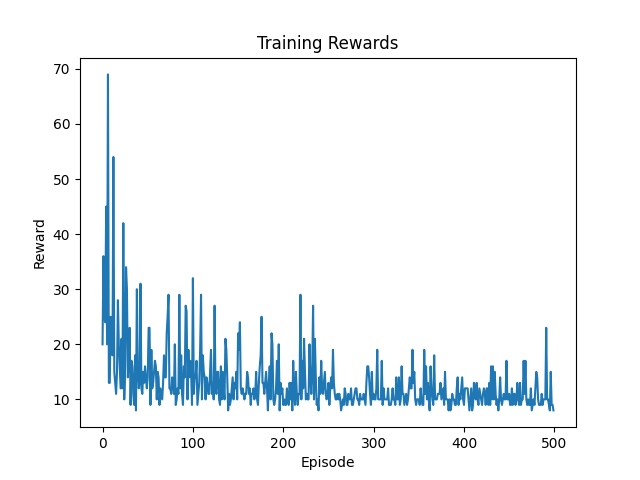
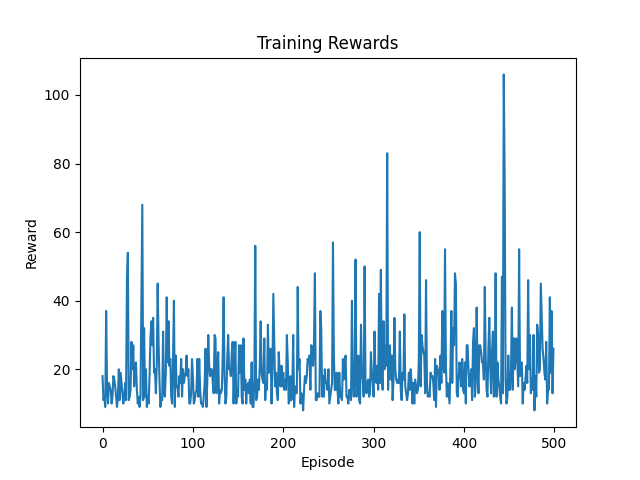
Enhance model

diff --git a/grpo_rl_gpt-13/main.py b/grpo_rl_gpt-13/main.py
@@ -31,7 +31,7 @@ class ValueNetwork(nn.Module):
         return self.fc(x)
 
 class GRPOAgent:
-    def __init__(self, state_dim, action_dim, lr=3e-4, gamma=0.99, lambda_gae=0.95, kl_target=0.01, beta=1.0):
+    def __init__(self, state_dim, action_dim, lr=1e-4, gamma=0.99, lambda_gae=0.95, kl_target=0.01, beta=1.0):
         self.policy_net = PolicyNetwork(state_dim, action_dim)
         self.value_net = ValueNetwork(state_dim)
         self.optimizer = optim.Adam(list(self.policy_net.parameters()) + list(self.value_net.parameters()), lr=lr)
@@ -78,6 +78,10 @@ class GRPOAgent:
         old_log_probs = torch.FloatTensor(old_log_probs)
         advantages = torch.FloatTensor(advantages)
         returns = torch.FloatTensor(returns)
+        # 归一化优势函数以稳定训练
+        advantages = (advantages - advantages.mean()) / (advantages.std() + 1e-8)
+        advantages = advantages.detach()
+        returns = returns.detach()
         
         # 计算当前策略的概率和对数概率
         probs = self.policy_net(states)
@@ -88,10 +92,14 @@ class GRPOAgent:
         ratio = torch.exp(new_log_probs - old_log_probs)
         
         # 计算KL散度
-        kl_divergence = (old_log_probs - new_log_probs).mean().item()
+        # 计算正确的KL散度 (新策略 || 旧策略)
+        kl_divergence = (new_log_probs.exp() * (new_log_probs - old_log_probs)).mean().item()
         
         # GRPO策略损失：线性优势估计 + KL惩罚
-        policy_loss = -(ratio * advantages).mean() + self.beta * kl_divergence
+        # 添加熵正则化鼓励探索
+        entropy = dist.entropy().mean()
+        # 增加熵正则化系数增强探索
+        policy_loss = -(ratio * advantages).mean() + self.beta * kl_divergence - 0.05 * entropy
         
         # 自适应调整beta系数
         if kl_divergence < self.kl_target / 1.5:
@@ -113,7 +121,8 @@ class GRPOAgent:
         total_loss.backward()
         self.optimizer.step()
         
-        return policy_loss.item(), value_loss.item(), kl_divergence
+        entropy = dist.entropy().mean().item()
+        return policy_loss.item(), value_loss.item(), kl_divergence, entropy
 
 def train(env_name, agent, episodes=1000, max_steps=200):
     env = gym.make(env_name)
@@ -150,10 +159,14 @@ def train(env_name, agent, episodes=1000, max_steps=200):
         returns = [advantage + value for advantage, value in zip(advantages, values)]
         
         # 更新策略和价值网络
-        policy_loss, value_loss, kl_divergence = agent.update(states, actions, log_probs, advantages, returns, values)
+        policy_loss, value_loss, kl_divergence, entropy = agent.update(states, actions, log_probs, advantages, returns, values)
         
         total_rewards.append(total_reward)
         
+        # 记录训练指标
+        if episode % 10 == 0:
+            print(f"Episode {episode}: Reward={total_reward:.2f}, KL={kl_divergence:.4f}, Entropy={entropy:.4f}, ValueLoss={value_loss:.4f}")
+
         if episode % 100 == 0:
             avg_reward = np.mean(total_rewards[-100:])
             print(f"Episode {episode}, Avg Reward: {avg_reward:.2f}, Policy Loss: {policy_loss:.4f}, Value Loss: {value_loss:.4f}, KL Divergence: {kl_divergence:.6f}")
